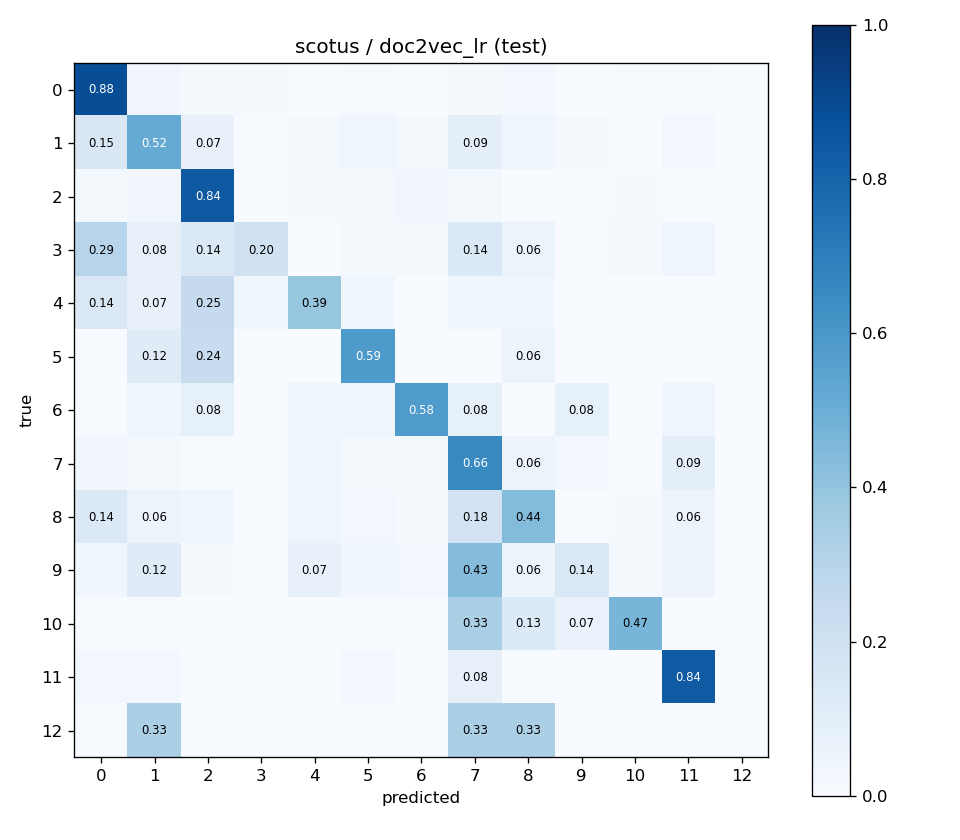
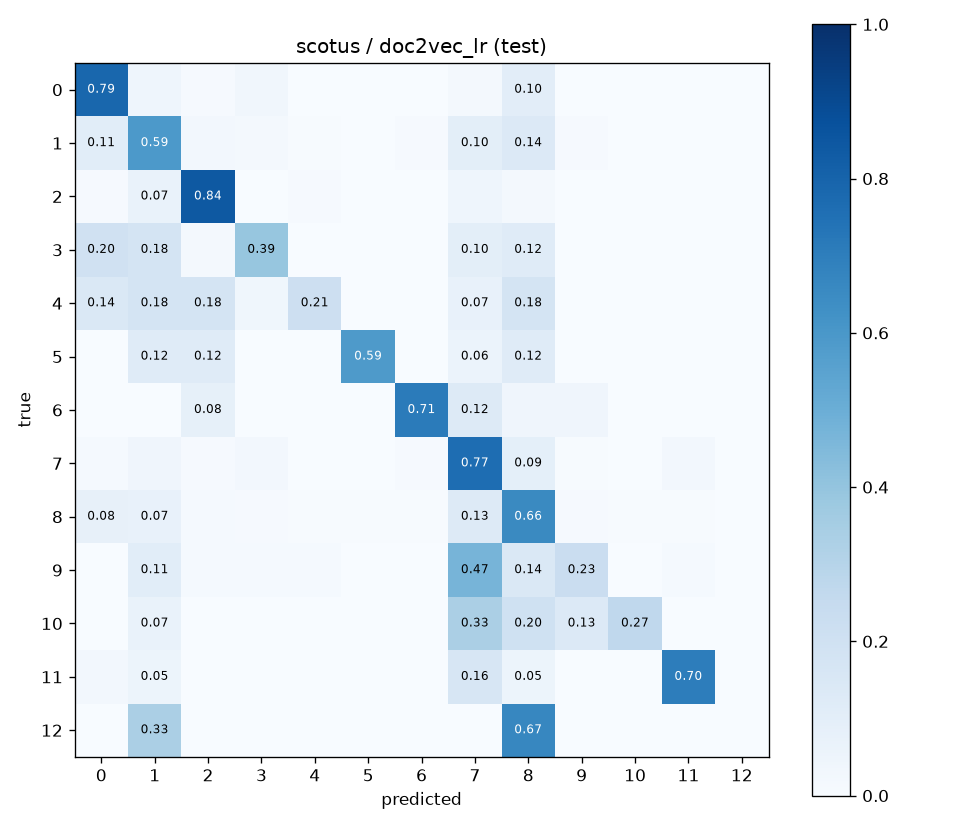
Tune Doc2Vec hyperparameters on dev set

diff --git a/src/topic_baselines.py b/src/topic_baselines.py
@@ -24,7 +24,8 @@ from src.evaluate import compute_metrics, save_run
 
 MODELS_DIR = ROOT / "models"
 CS = [1, 10, 100]
-
+DOC2VEC_DIMS = [100, 200]
+DOC2VEC_DMS = [0, 1]
 
 def _fit_lr_grid(Xtr, ytr, Xdv, ydv, Cs):
     best = {"macro_f1": -1.0}
@@ -76,30 +77,140 @@ def run_doc2vec(dataset: str, quick: bool = False, workers: int = 4, dim: int = 
     tr, dv, te = _splits(dataset, quick)
     if quick:
         epochs = 3
+
     ttr, tdv, tte = _tok(tr.text), _tok(dv.text), _tok(te.text)
-    t0 = time.time()
-    model = Doc2Vec(vector_size=dim, min_count=5, epochs=epochs, workers=workers, seed=SEED, dm=1)
-    model.build_vocab([TaggedDocument(w, [i]) for i, w in enumerate(ttr)])
-    model.train([TaggedDocument(w, [i]) for i, w in enumerate(ttr)],
-                total_examples=model.corpus_count, epochs=model.epochs)
-    print(f"[doc2vec] trained dim={dim} epochs={epochs} in {time.time()-t0:.0f}s")
-    Xtr = np.vstack([model.dv[i] for i in range(len(ttr))])
-    t0 = time.time()
-    Xdv = np.vstack([model.infer_vector(w) for w in tdv])
-    Xte = np.vstack([model.infer_vector(w) for w in tte])
-    print(f"[doc2vec] inferred dev/test vectors in {time.time()-t0:.0f}s")
-    best = _fit_lr_grid(Xtr, tr.label, Xdv, dv.label, [10] if quick else CS)
-    pred = best["clf"].predict(Xte)
+
+    best_overall = {"macro_f1": -1.0}
+
+    dims = [dim] if quick else DOC2VEC_DIMS
+    dms = [1] if quick else DOC2VEC_DMS
+
+    for current_dim in dims:
+        for current_dm in dms:
+            print(f"[doc2vec] trying dim={current_dim}, dm={current_dm}")
+
+            t0 = time.time()
+            model = Doc2Vec(
+                vector_size=current_dim,
+                min_count=5,
+                epochs=epochs,
+                workers=workers,
+                seed=SEED,
+                dm=current_dm,
+            )
+
+            tagged_train = [
+                TaggedDocument(w, [i])
+                for i, w in enumerate(ttr)
+            ]
+
+            model.build_vocab(tagged_train)
+            model.train(
+                tagged_train,
+                total_examples=model.corpus_count,
+                epochs=model.epochs,
+            )
+
+            print(
+                f"[doc2vec] trained dim={current_dim} "
+                f"dm={current_dm} epochs={epochs} "
+                f"in {time.time() - t0:.0f}s"
+            )
+
+            Xtr = np.vstack([
+                model.dv[i] for i in range(len(ttr))
+            ])
+
+            t0 = time.time()
+
+            Xdv = np.vstack([
+                model.infer_vector(w) for w in tdv
+            ])
+
+            Xte = np.vstack([
+                model.infer_vector(w) for w in tte
+            ])
+
+            print(
+                f"[doc2vec] inferred dev/test vectors "
+                f"in {time.time() - t0:.0f}s"
+            )
+
+            lr_best = _fit_lr_grid(
+                Xtr,
+                tr.label,
+                Xdv,
+                dv.label,
+                [10] if quick else CS,
+            )
+
+            print(
+                f"[doc2vec] dim={current_dim} "
+                f"dm={current_dm} "
+                f"best C={lr_best['C']} "
+                f"dev macro-F1={lr_best['macro_f1']:.4f}"
+            )
+
+            if lr_best["macro_f1"] > best_overall["macro_f1"]:
+                best_overall = {
+                    **lr_best,
+                    "model": model,
+                    "dim": current_dim,
+                    "dm": current_dm,
+                }
+
+    model = best_overall["model"]
+
+    Xte = np.vstack([
+        model.infer_vector(w) for w in tte
+    ])
+
+    pred = best_overall["clf"].predict(Xte)
     test_m = compute_metrics(te.label, pred)
-    print(f"[doc2vec] best on dev: C={best['C']}\n[doc2vec] TEST: {test_m}")
+
+    print(
+        f"[doc2vec] best on dev: "
+        f"dim={best_overall['dim']} "
+        f"dm={best_overall['dm']} "
+        f"C={best_overall['C']}"
+    )
+    print(f"[doc2vec] TEST: {test_m}")
+
     if not quick:
         MODELS_DIR.mkdir(exist_ok=True)
-        model.save(str(MODELS_DIR / f"{dataset}_doc2vec.model"))
-        joblib.dump(best["clf"], MODELS_DIR / f"{dataset}_doc2vec_lr.joblib")
-        dev_m = {k: best[k] for k in ("accuracy", "macro_f1", "micro_f1")}
-        save_run(dataset, "doc2vec_lr", dev_m, test_m, te.label.values, pred,
-                 extra={"best_params": {"C": best["C"], "dim": dim, "epochs": epochs}, "seed": SEED, "workers": workers})
 
+        model.save(
+            str(MODELS_DIR / f"{dataset}_doc2vec.model")
+        )
+
+        joblib.dump(
+            best_overall["clf"],
+            MODELS_DIR / f"{dataset}_doc2vec_lr.joblib"
+        )
+
+        dev_m = {
+            k: best_overall[k]
+            for k in ("accuracy", "macro_f1", "micro_f1")
+        }
+
+        save_run(
+            dataset,
+            "doc2vec_lr",
+            dev_m,
+            test_m,
+            te.label.values,
+            pred,
+            extra={
+                "best_params": {
+                    "C": best_overall["C"],
+                    "dim": best_overall["dim"],
+                    "dm": best_overall["dm"],
+                    "epochs": epochs,
+                },
+                "seed": SEED,
+                "workers": workers,
+            },
+        )
 
 if __name__ == "__main__":
     ap = argparse.ArgumentParser()
